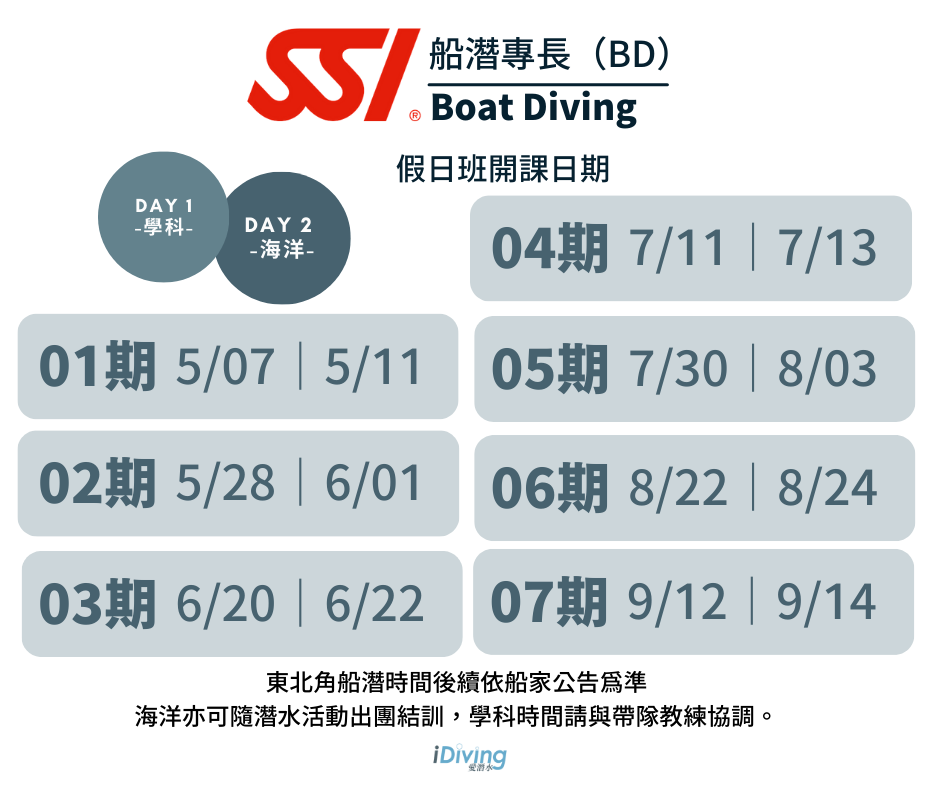
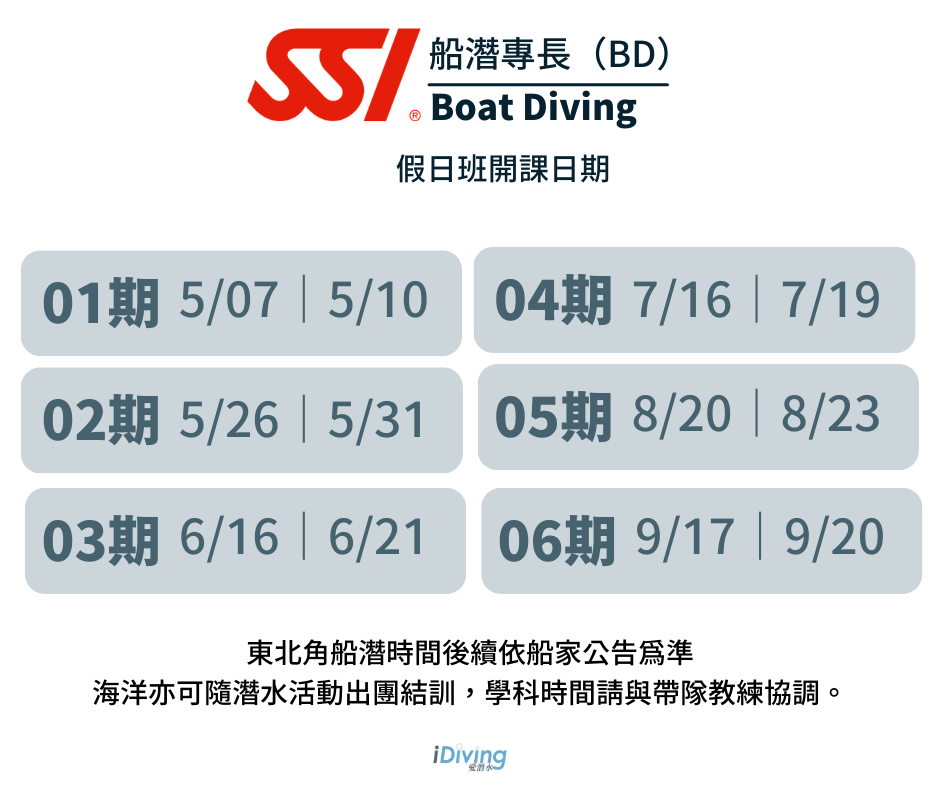
船潛期別更新

diff --git a/src/app/pages/c310/c310.component.html b/src/app/pages/c310/c310.component.html
@@ -1549,9 +1549,9 @@
                                                 <div class="carousel-item active">
                                                     <img src="../../../../assets/Image/Data/Schedule_BD_01.png" class="d-block w-100" alt="...">
                                                 </div>
-                                                <div class="carousel-item">
+                                                <!-- <div class="carousel-item">
                                                     <img src="../../../../assets/Image/Data/Schedule_BD_02.png" class="d-block w-100" alt="...">
-                                                </div>
+                                                </div> -->
                                             </div>
                                             <button class="carousel-control-prev" type="button" data-bs-target="#carouselExampleIndicators" data-bs-slide="prev">
                                                 <span class="carousel-control-prev-icon" aria-hidden="true"></span>
